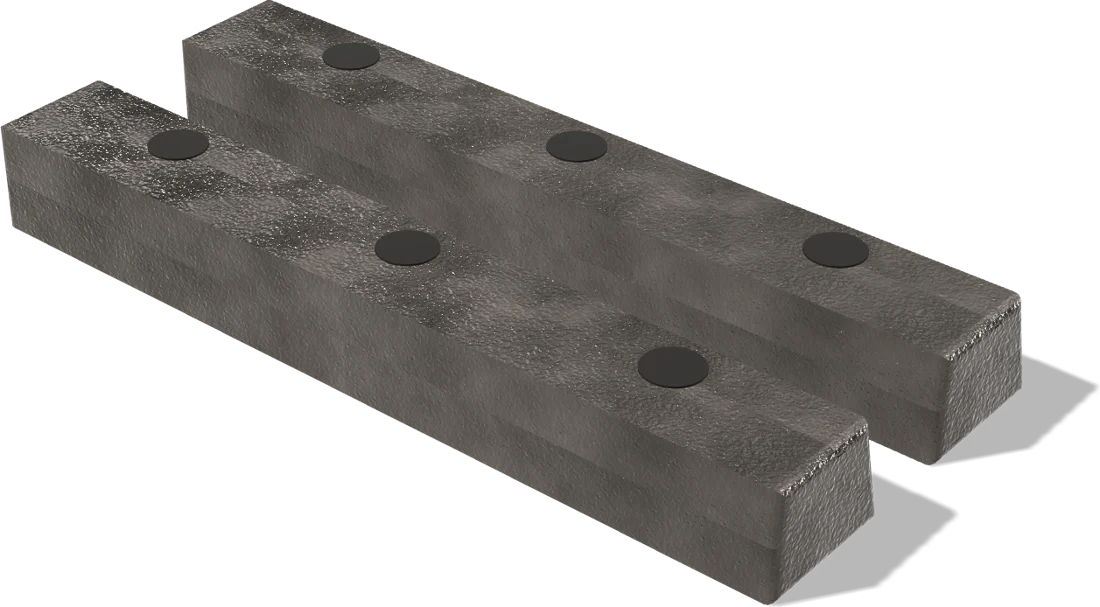
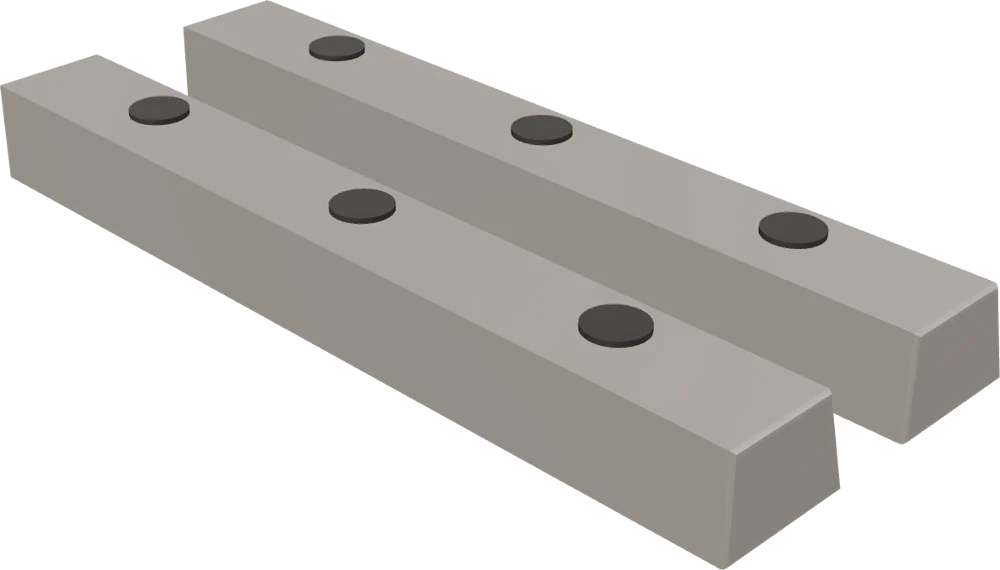
Revert part images to the previous set
Claude-Session: https://claude.ai/code/session_01Dpv3H4dmne5RBJc11vKtrm

diff --git a/assets/css/surge.css b/assets/css/surge.css
@@ -190,7 +190,7 @@ p{text-wrap:pretty}
 .sp:hover{transform:translateY(-8px);box-shadow:0 40px 60px -40px rgba(80,40,10,.5)}
 .sp-n{position:absolute;top:20px;left:22px;z-index:1;font:500 13px/1 var(--head);color:var(--muted);font-variant-numeric:tabular-nums}
 .sp-pic{height:clamp(240px,24vw,320px);display:grid;place-items:center;padding:40px 30px 10px;background:radial-gradient(75% 70% at 50% 60%,#fbe5cf 0%,var(--paper) 72%)}
-.sp-pic img{max-height:100%;max-width:88%;object-fit:contain;filter:none;transition:transform 1s var(--ease)}
+.sp-pic img{max-height:100%;max-width:88%;object-fit:contain;filter:grayscale(1) contrast(1.06) drop-shadow(0 26px 22px rgba(70,35,10,.28));transition:transform 1s var(--ease)}
 .sp:hover .sp-pic img{transform:scale(1.07) rotate(-2deg)}
 .sp-type{align-self:end;justify-self:start;font:500 34px/1 var(--head);letter-spacing:-.03em;color:var(--or-deep);opacity:.7;max-width:9ch}
 .sp-b{display:grid;gap:6px;align-content:start;padding:22px 26px 26px}
@@ -232,7 +232,7 @@ p{text-wrap:pretty}
 .pcard{display:grid;grid-template-rows:220px auto;border-radius:var(--r);background:var(--white);border:1px solid var(--line-2);color:inherit;text-decoration:none;overflow:hidden;transition:transform .45s var(--ease),box-shadow .45s,border-color .3s}
 .pcard:hover{transform:translateY(-6px);box-shadow:0 30px 50px -34px rgba(60,30,10,.45);border-color:var(--line)}
 .pcard .pic{display:grid;place-items:center;padding:22px 22px 0;background:linear-gradient(180deg,var(--white),var(--paper))}
-.pcard .pic img{max-width:84%;max-height:170px;object-fit:contain;transition:transform .7s var(--ease)}
+.pcard .pic img{max-width:84%;max-height:170px;object-fit:contain;filter:grayscale(1) contrast(1.05);transition:transform .7s var(--ease)}
 .pcard:hover .pic img{transform:scale(1.06) rotate(-1deg)}
 .pcard .pic.type{place-items:end start;padding:22px;background:linear-gradient(140deg,var(--or-soft),var(--paper))}
 .pcard .pic.type span{font:500 26px/1.05 var(--head);letter-spacing:-.02em;color:var(--or-deep);opacity:.75}
@@ -329,7 +329,7 @@ p{text-wrap:pretty}
 .pfacts dt{font-size:14px;color:var(--muted)}
 .pfacts dd{margin:0;color:var(--ink)}
 .pvis{grid-column:8/span 5;margin:0;display:grid;place-items:center;min-height:440px;padding:40px;border-radius:var(--r);background:radial-gradient(closest-side,var(--white),var(--paper-2))}
-.pvis img{max-height:360px;object-fit:contain}
+.pvis img{max-height:360px;object-fit:contain;filter:grayscale(1) contrast(1.05)}
 .qcard{place-items:start;align-content:center;gap:20px;background:linear-gradient(150deg,var(--or-soft),var(--paper))}
 .qcard h2{font-size:28px}
 .qcard .facts{width:100%}
